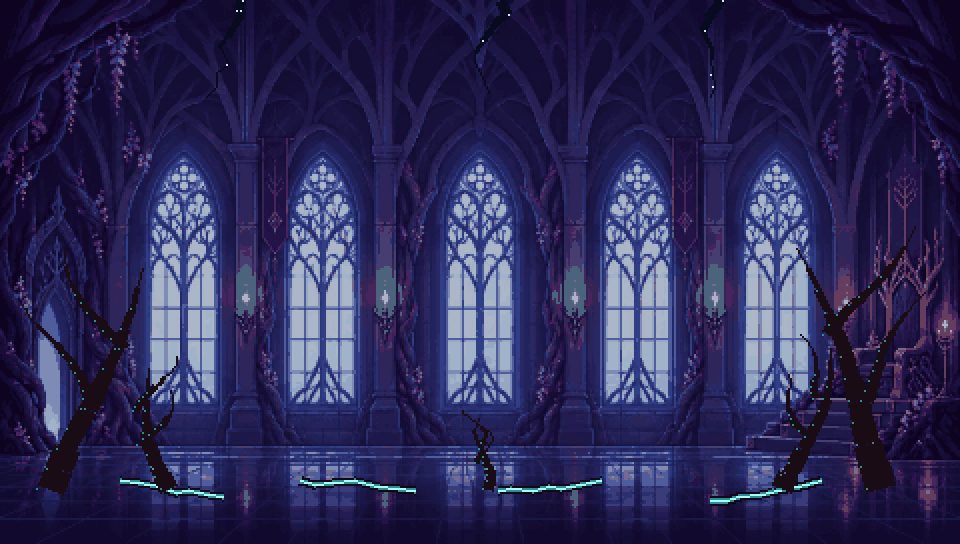
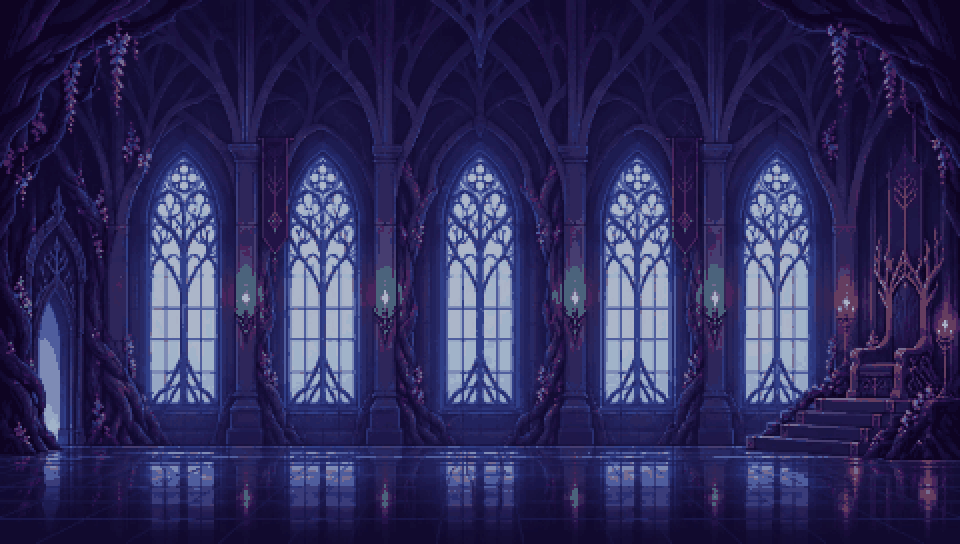
Thronsaal Phase 3: gezeichnete Risse und Wurzeln entfernt, Prompt ergänzt
Die per Skript gezeichneten Risse und Wurzeln wirkten fremd im Bild.
Phase 3 bleibt als Stimmungs-Platzhalter (dunkler, violetter, türkise
Fackeln); assets/PROMPTS.md enthält den Prompt thronsaal-p3-v1.

Claude-Session: https://claude.ai/code/session_01JNM23qRd8G2yZa2t1RaBmf

diff --git a/tools/cutout/thronsaal.py b/tools/cutout/thronsaal.py
@@ -1,8 +1,7 @@
 """Thronsaal-Varianten für Phase 2 und 3 aus dem Entwurf thronsaal-pixel-v2.
 
 Phase 2: Die Fackeln brennen türkis statt orange (Farbtausch).
-Phase 3: dunkler und violetter, leuchtende Risse im Boden, Wurzeln brechen
-durch, die Decke zeigt Risse mit Nachthimmel dahinter.
+Phase 3: dunkler und violetter (Platzhalter bis zum Bild nach Prompt thronsaal-p3-v1).
 
 Alles in nativer PSP-Auflösung 480 x 272.
 
@@ -10,11 +9,9 @@ Alles in nativer PSP-Auflösung 480 x 272.
 """
 
 import colorsys
-import math
 import os
-import random
 
-from PIL import Image, ImageDraw
+from PIL import Image
 
 REPO = os.path.abspath(os.path.join(os.path.dirname(__file__), "..", ".."))
 QUELLE = os.path.join(REPO, "assets", "konzept", "thronsaal-pixel-v2.webp")
@@ -45,57 +42,15 @@ def fackeln_tuerkis(im):
 
 
 def phase3(im):
-    im = fackeln_tuerkis(im)
-    # dunkler und violetter
-    dunkel = Image.new("RGB", (W, H), (40, 8, 70))
-    im = Image.blend(im, dunkel, 0.28)
-    d = ImageDraw.Draw(im)
-    rnd = random.Random(7)
-    # Deckenrisse mit Nachthimmel
-    for x0 in (120, 250, 360):
-        pts = [(x0, 0)]
-        x, y = x0, 0
-        while y < 46:
-            x += rnd.randint(-6, 6)
-            y += rnd.randint(4, 8)
-            pts.append((x, y))
-        for i in range(len(pts) - 1):
-            breite = max(1, 5 - i)
-            d.line([pts[i], pts[i + 1]], fill=(8, 10, 32), width=breite)
-        for _ in range(4):
-            sx, sy = pts[rnd.randint(0, len(pts) - 2)]
-            d.point((sx + rnd.randint(-1, 1), sy), fill=(220, 230, 255))
-    # leuchtende Risse im Boden
-    for x0 in (60, 150, 300, 410):
-        x, y = x0, BODEN + 4
-        pts = [(x, y)]
-        for _ in range(6):
-            x += rnd.randint(6, 12) * (1 if x0 < 240 else -1)
-            y += rnd.randint(-1, 3)
-            pts.append((x, min(H - 2, y)))
-        d.line(pts, fill=(18, 6, 22), width=5)
-        d.line(pts, fill=(42, 143, 154), width=3)
-        d.line(pts, fill=(168, 255, 244), width=1)
-    # Wurzeln brechen durch den Boden
-    def wurzel(x0, y0, hoehe, neig, breite, tiefe=0):
-        pts = []
-        for i in range(12):
-            t = i / 11
-            pts.append((x0 + neig * hoehe * t + 5 * math.sin(t * 4 + x0), y0 - hoehe * t))
-        for i in range(len(pts) - 1):
-            w = max(1, round(breite * (1 - i / 11)))
-            d.line([pts[i], pts[i + 1]], fill=(26, 12, 20), width=w)
-            if w >= 3:
-                # schwacher türkiser Rand auf der Lichtseite
-                d.point((pts[i][0] - w // 2, pts[i][1]), fill=(42, 143, 154))
-        if tiefe == 0:
-            for k in (4, 7):
-                wurzel(pts[k][0], pts[k][1], hoehe * 0.45, -neig * 1.6, breite * 0.45, 1)
+    """Nur Stimmung: dunkler und violetter, Fackeln türkis.
 
-    for x0, hoehe, neig, breite in ((30, 110, 0.35, 14), (85, 60, -0.25, 9), (445, 120, -0.4, 15),
-                                    (395, 70, 0.3, 10), (240, 35, 0.1, 6)):
-        wurzel(x0, BODEN + 8, hoehe, neig, breite)
-    return im
+    Risse, Wurzeln und die geöffnete Decke werden nicht per Skript gezeichnet,
+    das wirkte fremd im Bild. Dafür gibt es einen Prompt (assets/PROMPTS.md,
+    thronsaal-p3-v1).
+    """
+    im = fackeln_tuerkis(im)
+    dunkel = Image.new("RGB", (W, H), (40, 8, 70))
+    return Image.blend(im, dunkel, 0.28)
 
 
 def main():

diff --git a/assets/PROMPTS.md b/assets/PROMPTS.md
@@ -22,6 +22,12 @@ Noch nicht erzeugt. Bearbeitung von `koenigin-p2-helmbruch-v1`. Phase 3: Der Hel
 
 > Use case: precise-object-edit. Edit the attached pixel-art Queen asset to show her third and final combat phase, the root form. Use a wider transparent canvas so the wings fit completely. 1) The cracked helmet has fully crumbled away; only a few small dark shards drift beside her head. For the first time her face is visible: a dark, shadowy, calm and serious face with two turquoise-white glowing eyes without pupils, framed by her long ice-blue hair. The five tall black branch points of her crown now rest directly on her head, with a few small glowing teal-green leaves sprouting from them. 2) Parts of her black armor have hardened into dark brown root wood with thin turquoise glowing cracks between the wooden plates. 3) The scythe has fused with her forearm: the curved pale-lavender blade with its violet stripe now grows directly out of her forearm, the shaft has become dark roots winding up her arm into her shoulder. 4) From her shoulders grow large wings made of intertwined dark roots, three asymmetric root tendrils per side reaching back and upward, outer edges glowing turquoise, eight to twelve small teal-green glowing leaves scattered on them, a few black roots with magenta veins remain as traces of the corruption. 5) She floats clearly above the ground, cloak lifted upward and backward as if underwater, hair flowing. Keep pose facing left, flowers, proportions of her body and the same coarse pixel scale: large uniform square pixel clusters, no thin lines, no fine filigree, limited palette. Entire figure and both wings visible. Genuine transparent background. No scenery, no floor, no text, no border.
 
+## thronsaal-p3-v1 — Vorschlag: Thronsaal in Phase 3
+
+Noch nicht erzeugt. Bearbeitung von `thronsaal-pixel-v2`. Die Kamera, der Aufbau und der freie Bodenstreifen für den Kampf müssen gleich bleiben, damit der Saal zwischen den Phasen nahtlos wechseln kann.
+
+> Use case: precise-object-edit. Edit the attached pixel-art throne hall background to show the same hall in the final phase of the boss fight. Keep camera, composition, window positions, entrance on the left, throne on the right and the open reflective floor strip at the bottom exactly the same, so the two images can be swapped in the same game. Changes: 1) The whole hall is darker and more violet, the wall torches burn with cold turquoise-blue flames instead of warm light. 2) Large black roots of the world tree have broken through the stone floor near the left and right walls and along the base of the pillars, with broken floor tiles around them; thin turquoise glowing veins run along the roots. Keep the central floor area free for the fight. 3) A few wide jagged cracks run across the vaulted ceiling, through which a dark night sky with a few stars is visible. 4) A few thin glowing cracks spread across the floor from the roots, drawn as part of the floor tiles, not as overlay lines. Same authentic crisp low-resolution pixel art as the original, same pixel density, limited palette, no blur, no characters, no text, no UI.
+
 ## thronsaal-pixel-v2 — aktueller Thronsaal
 
 Transparenter Hintergrund: nein

diff --git a/assets/README.md b/assets/README.md
@@ -26,7 +26,7 @@ Die Entwürfe verkleinert auf echte PSP-Auflösung, um Lesbarkeit und Aufteilung
 | [psp/held-32x48.png](konzept/psp/held-32x48.png) | Held automatisch auf 37 × 48 verkleinert, 16 Farben |
 | [psp/paletten-phasen.png](konzept/psp/paletten-phasen.png) | Farbpaletten der Phasen 1–3 |
 | [psp/thronsaal-p2.png](konzept/psp/thronsaal-p2.png) (+ `-2x`) | Thronsaal Phase 2: Fackeln brennen türkis (Farbtausch aus Pixel v2) |
-| [psp/thronsaal-p3.png](konzept/psp/thronsaal-p3.png) (+ `-2x`) | Thronsaal Phase 3: dunkler, leuchtende Bodenrisse, Wurzeln, Deckenrisse mit Nachthimmel (einfacher Entwurf) |
+| [psp/thronsaal-p3.png](konzept/psp/thronsaal-p3.png) (+ `-2x`) | Thronsaal Phase 3: nur dunklere, violettere Stimmung als Platzhalter. Wurzeln und Risse folgen als Bild nach Prompt `thronsaal-p3-v1` ([PROMPTS.md](PROMPTS.md)) |
 | [psp/mockup-impuls2-amulett.png](konzept/psp/mockup-impuls2-amulett.png) (+ `-2x`) | Impuls beim Wechsel zu Phase 3: lila Nebel, goldener Amulett-Schild |
 
 Die verkleinerten Figuren sind automatisch erzeugt und nur ein Test. Echte Sprites müssen von Hand in nativer Größe gezeichnet werden. Das Phase-2-Mockup zeigt die Königin mit gerissenem Helm, 5 px schwebend. **Erkenntnis:** Bei 96 px Höhe gehen die feinen türkisen Risse und die magentafarbenen Adern beim automatischen Verkleinern fast verloren. Im nativen Sprite müssen sie als wenige, kräftige Linien gezeichnet werden.

diff --git a/docs/VISUAL_KOENIGIN.md b/docs/VISUAL_KOENIGIN.md
@@ -385,4 +385,4 @@ Jede Datei kommt mit einer gleichnamigen `.json` für die Bildpositionen im Atla
 - Animationen für das Totenritual (magisches Feuer, In-den-Arm-nehmen, lila Portal), Umfang siehe [DIALOGE.md](DIALOGE.md#umsetzung-des-totenrituals).
 - Konkrete Bildzahlen nach ersten Tests auf dem Gerät anpassen.
 - Animationen für die Enden, sobald die Zweige der Geschichte stehen.
-- Thronsaal Phase 2 und 3: erste Entwürfe in `assets/konzept/psp/thronsaal-p2.png` und `thronsaal-p3.png`; die Wurzeln in Phase 3 sollten von Hand nachgezeichnet werden.
+- Thronsaal Phase 3 mit Wurzeln und Rissen: Prompt `thronsaal-p3-v1` in [assets/PROMPTS.md](../assets/PROMPTS.md); Phase 2 liegt als `assets/konzept/psp/thronsaal-p2.png` vor.
